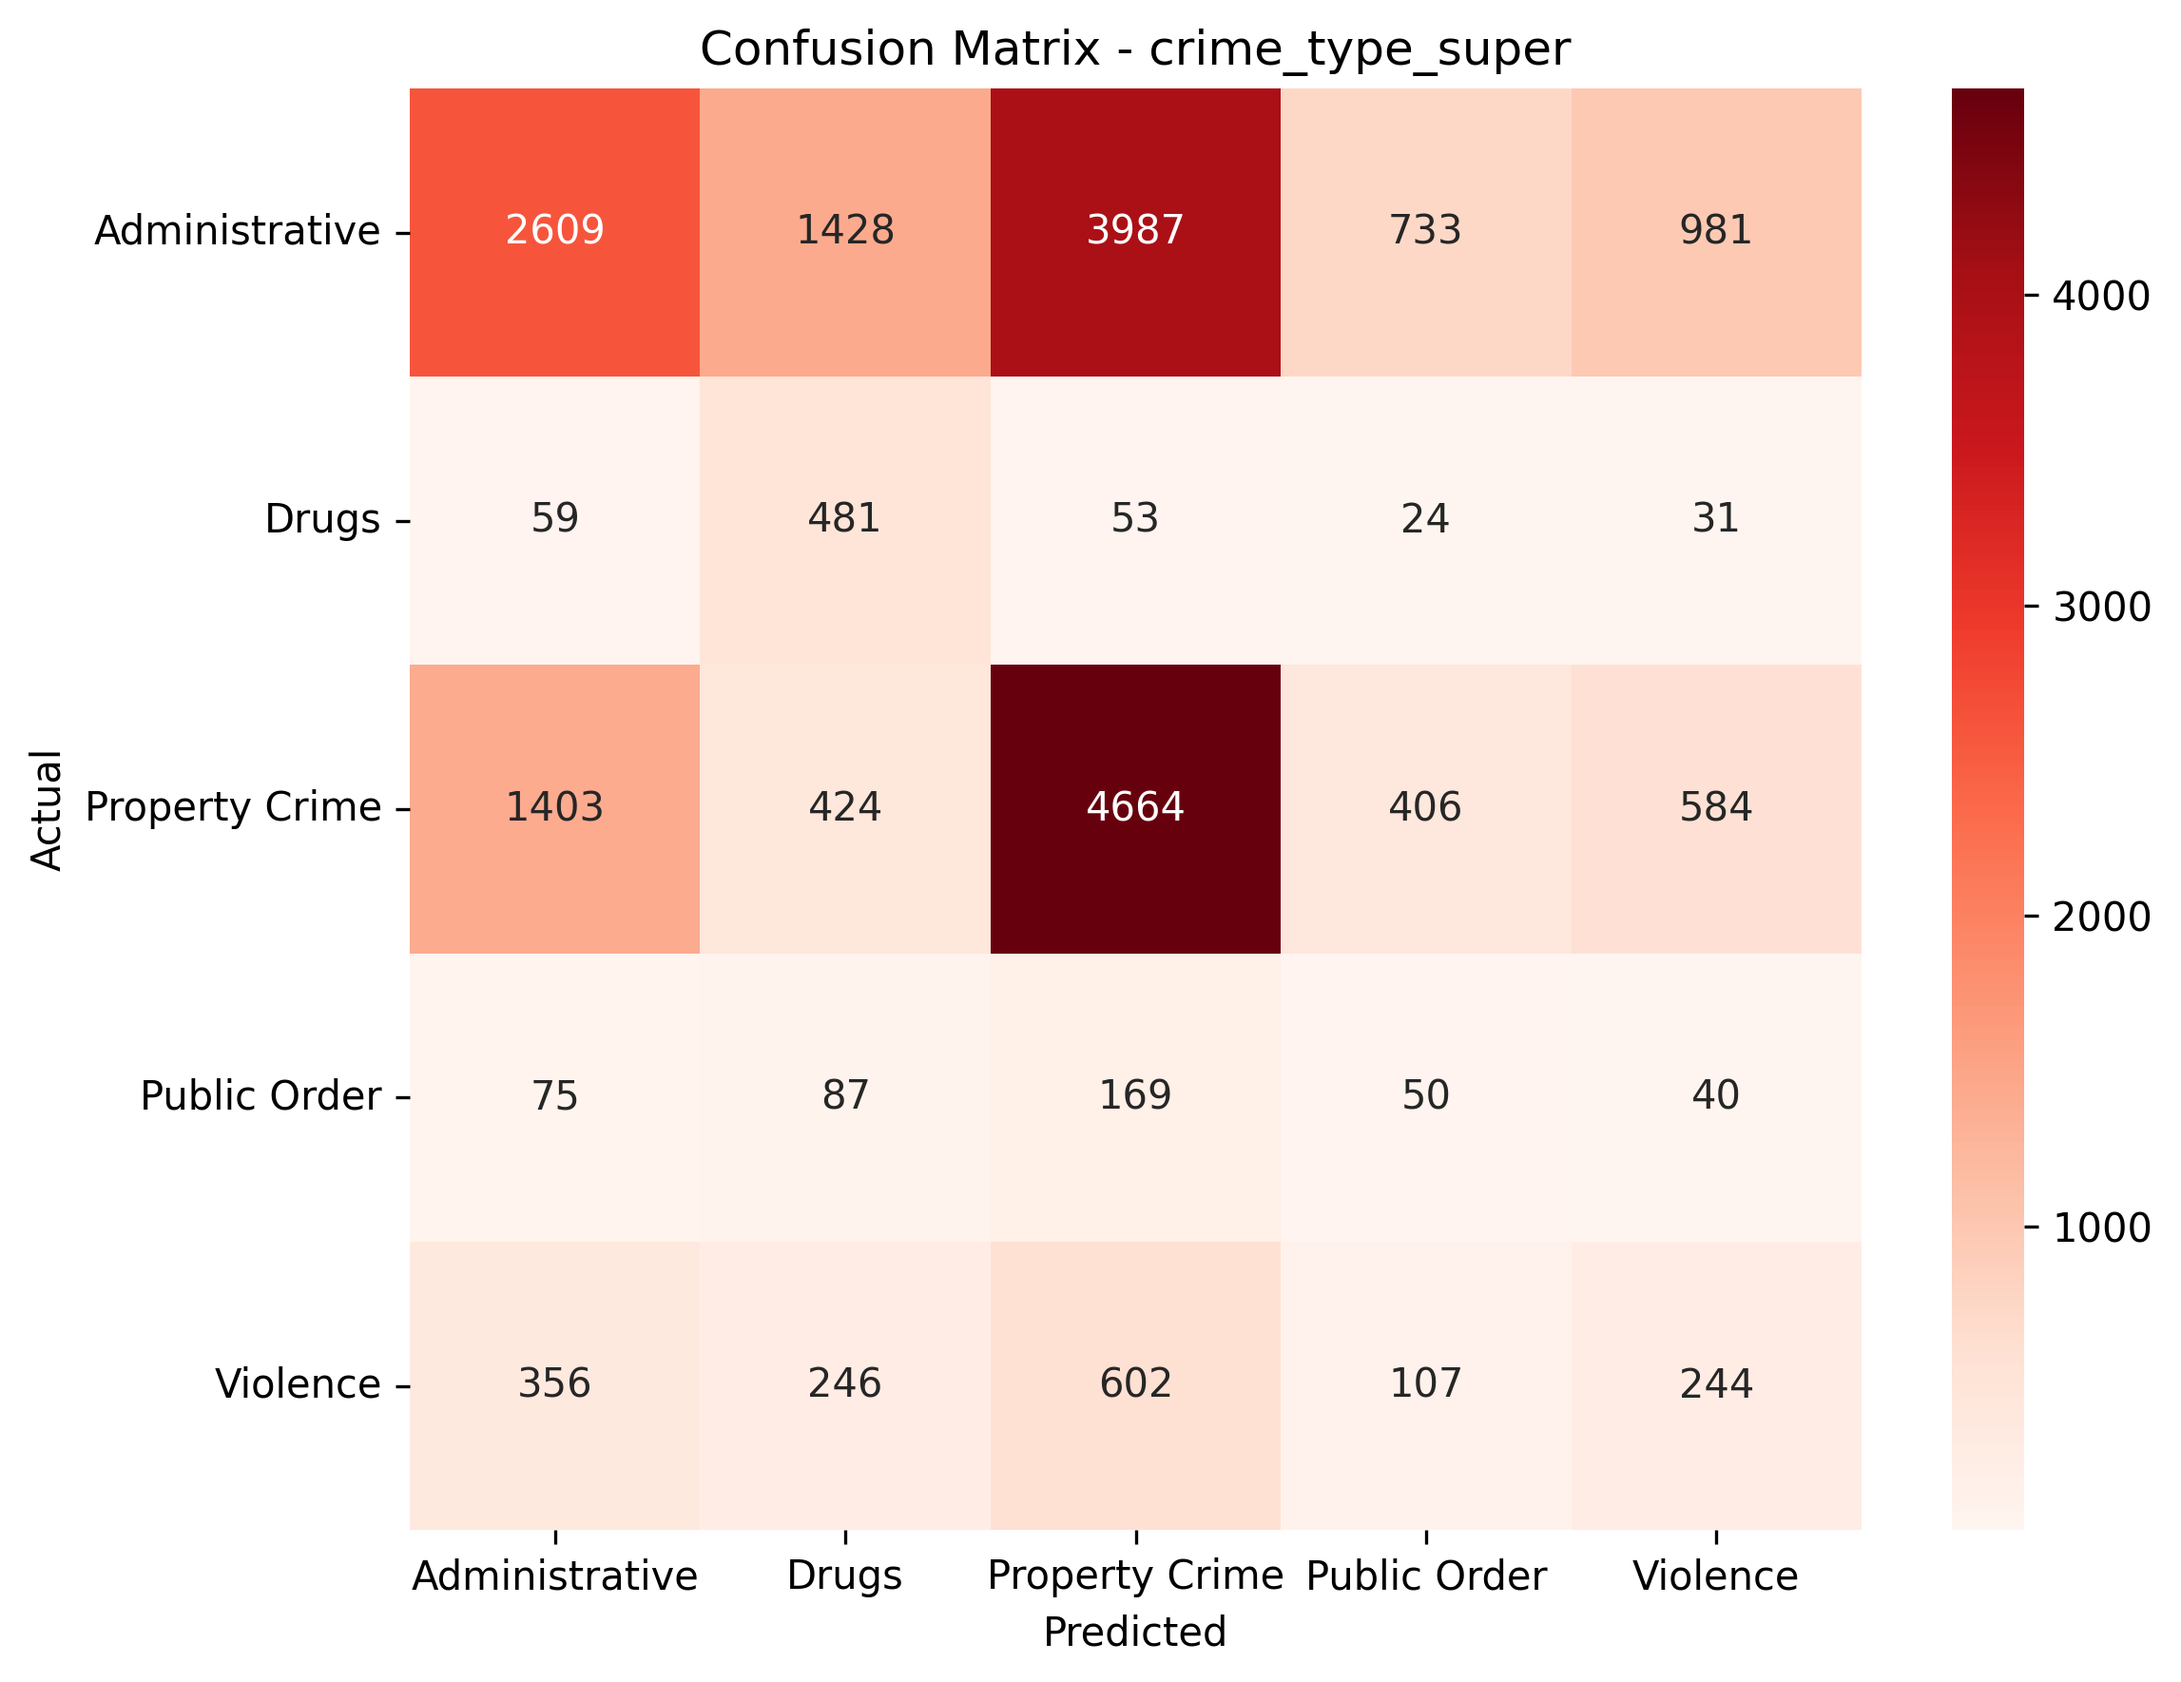
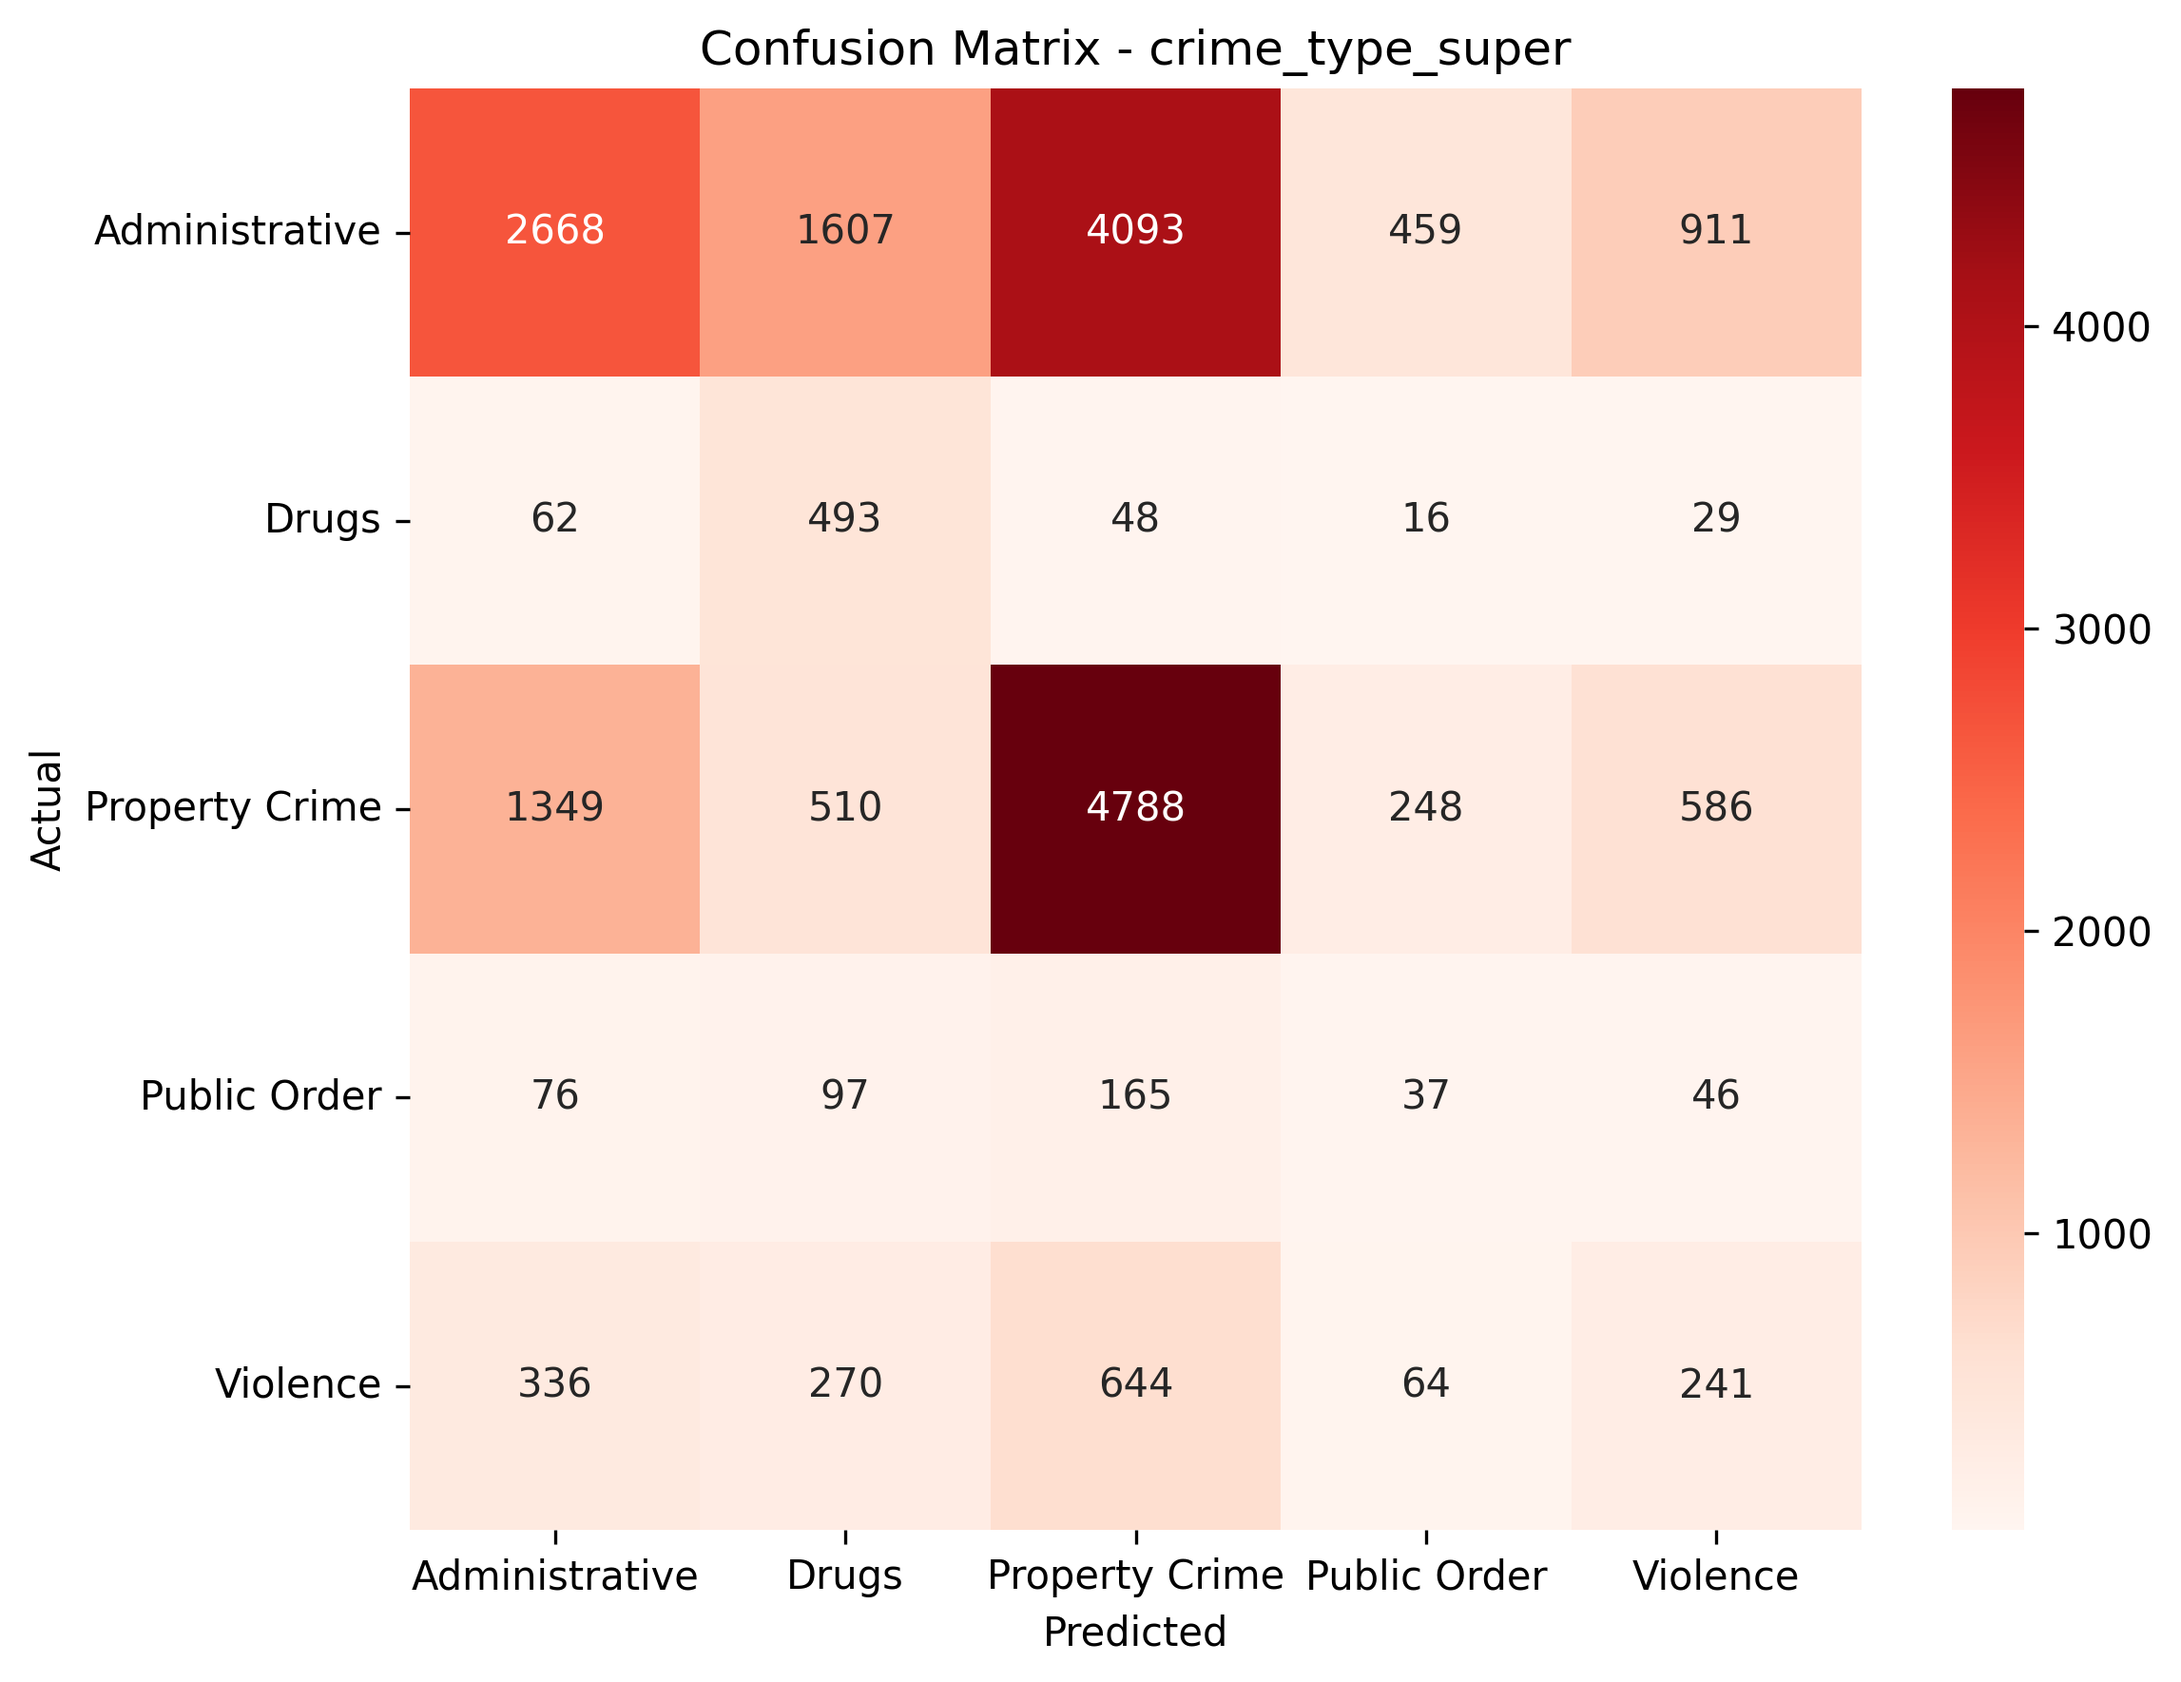
update basemodel

diff --git a/ml_evaluation/baseline_rf.py b/ml_evaluation/baseline_rf.py
@@ -113,7 +113,7 @@ class RandomForestPipeline:
         self.create_features()
 
         features = ['hour', 'month', 'dayOfweek', 'latitude', 'longitude', 
-                    'neighborhood', 'geo_grid', 'grid_id', 'grid_density']
+                    'neighborhood', 'geo_grid']
         X = self.df[features]
         y_raw = self.df[target_col]
 
